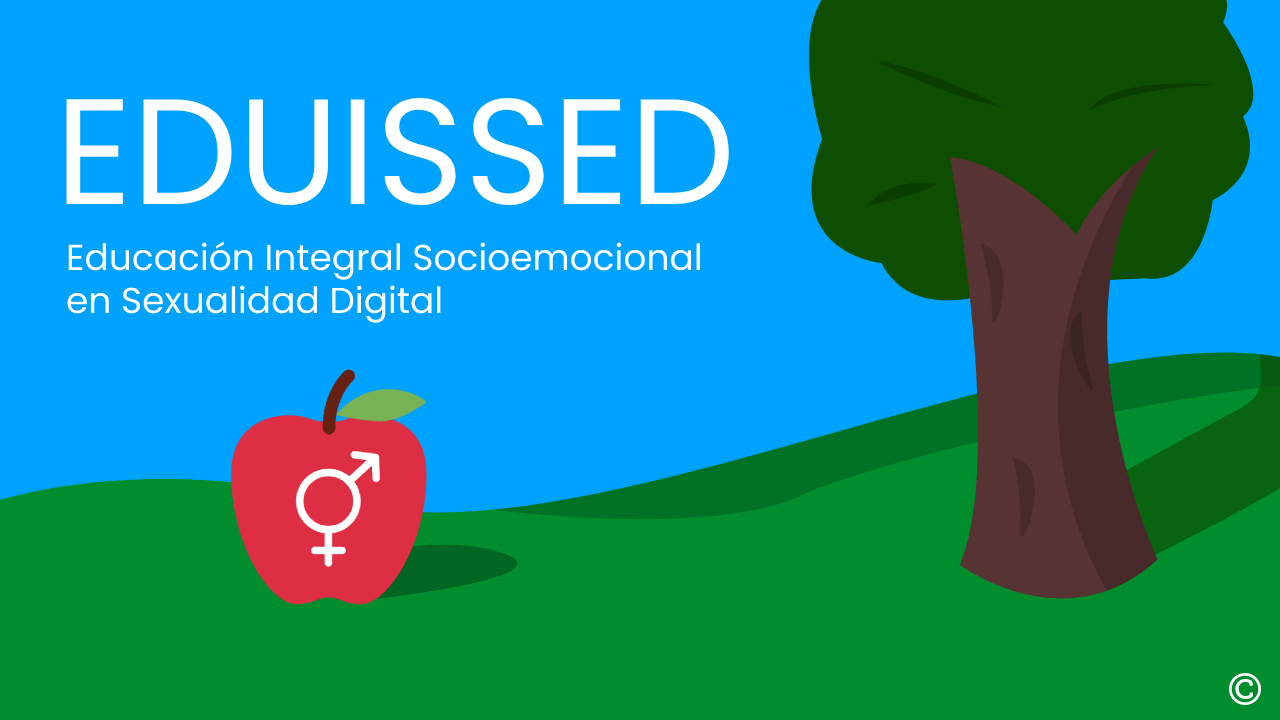
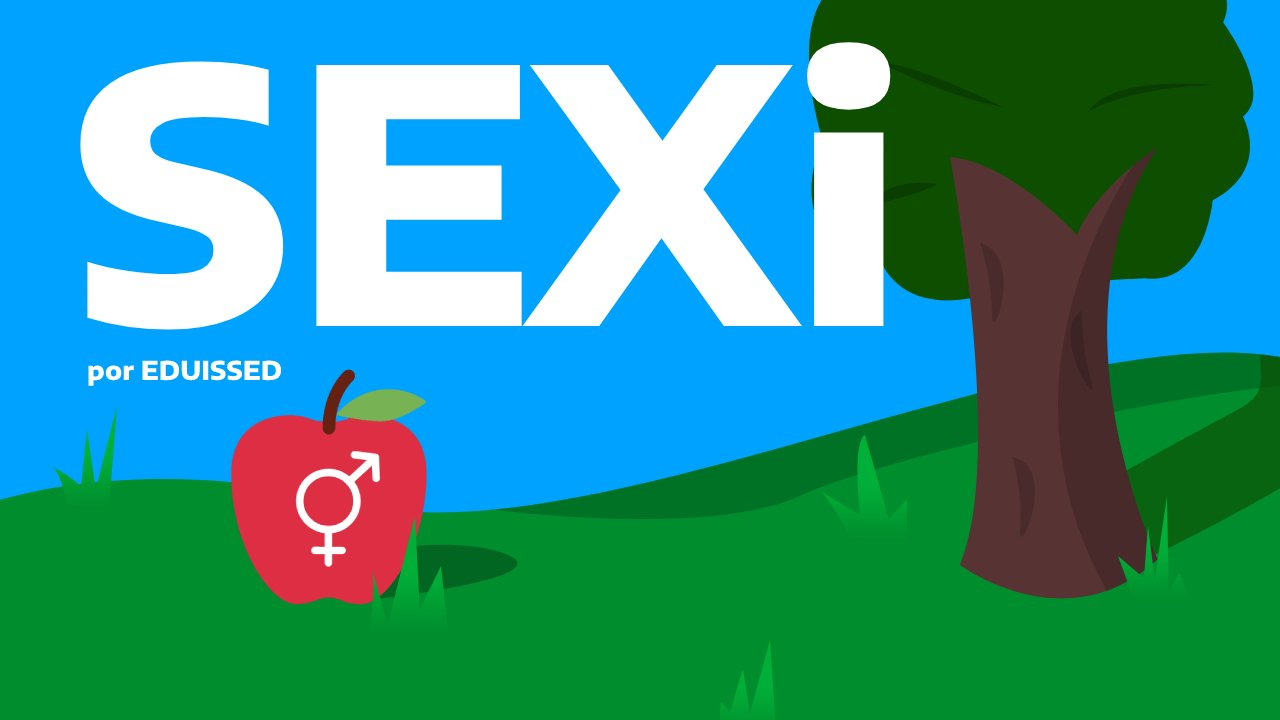
Renamed project to SEXi

diff --git a/index.html b/index.html
@@ -7,11 +7,12 @@
     <meta name="description" content="Hi! I'm Dvd and this is my personal website!" />
 
     <meta content="summary_large_image" property="twitter:card" />
-    <meta content="EDUISSED" property="twitter:title" />
+    <meta content="SEXi" property="twitter:title" />
+    <meta content="EDUISSED" property="twitter:creator" />
     <meta content="Somos una plataforma que busca fomentar la educación sexual en adolescentes"
         property="twitter:description" />
     <meta content="https://eduissed.org/resources/images/preview.jpg" property="twitter:image" />
-    <title>EDUISSED</title>
+    <title>SEXi - Inicio</title>
     <link href='https://unpkg.com/boxicons@2.1.4/css/boxicons.min.css' rel='stylesheet' />
     <link rel="stylesheet" href="./css/style.css" />
     <link rel="shortcut icon" href="../resources/favicon_color.ico" type="image/x-icon" />
@@ -23,8 +24,11 @@
             <span class="shrink-btn">
                 <i class='bx bx-chevron-left'></i>
             </span>
-            <a href="./index.html" class="logo"><img src="./resources/images/logo.png" alt="EDUISSED"></a>
-            <h3 class="hide noselect">EDUISSED</h3>
+            <a href="../index.html" class="logo"><img src="../resources/images/logo.png" alt="SEXi"></a>
+            <div class="logo-text hide noselect">
+                <h3>SEXi</h3>
+                <h4>de EDUISSED</h4>
+            </div>
         </div>
 
         <div class="search">
@@ -80,7 +84,7 @@
     </nav>
     <main>
         <div id="inicio" class="section">
-            <h1 class="section-title">¿Qué es EDUISSED?</h1>
+            <h1 class="section-title">¿Qué es SEXi?</h1>
             <p>
                 Actualmente, las estrategias de enseñanza-aprendizaje que el sistema educativo desarrolla a través de
                 los
@@ -89,8 +93,9 @@
                 pierdan el interés por realizar las actividades y como consecuencia, no se logré el aprendizaje y
                 comprensión esperado sobre los temas</p>
             <p>
-                Es por eso que decidimos diseñar "EDUISSED" <span class="remark">(Educación Integral Socioemocional en
-                    Sexualidad Digitalizada)</span>,
+                Es por eso que nosotros, EDUISSED <span class="remark">(Educación Integral Socioemocional en
+                    Sexualidad Digitalizada)</span>, decidimos diseñar <b>SEXi</b> <span class="remark">Sexualidad
+                    Digitalizada</span>
                 una herramienta tecnopedagógica, específicamente una pagina
                 web, que tiene como objetivo coadyuvar a la adquisición de habilidades socioemocionales en sexualidad.
                 Lo

diff --git a/aprende/index.html b/aprende/index.html
@@ -3,11 +3,18 @@
 
 <head>
     <meta charset="UTF-8">
-    <meta http-equiv="X-UA-Compatible" content="IE=edge">
     <meta name="viewport" content="width=device-width, initial-scale=1.0">
-    <title>EDUISSED</title>
-    <link href='https://unpkg.com/boxicons@2.1.4/css/boxicons.min.css' rel='stylesheet'>
-    <link rel="stylesheet" href="../css/aprende.css">
+    <meta name="description" content="Hi! I'm Dvd and this is my personal website!" />
+
+    <meta content="summary_large_image" property="twitter:card" />
+    <meta content="SEXi" property="twitter:title" />
+    <meta content="EDUISSED" property="twitter:creator" />
+    <meta content="Somos una plataforma que busca fomentar la educación sexual en adolescentes"
+        property="twitter:description" />
+    <meta content="https://eduissed.org/resources/images/preview.jpg" property="twitter:image" />
+    <title>SEXi - Aprende</title>
+    <link href='https://unpkg.com/boxicons@2.1.4/css/boxicons.min.css' rel='stylesheet' />
+    <link rel="stylesheet" href="../css/aprende.css" />
     <link rel="shortcut icon" href="../resources/favicon_color.ico" type="image/x-icon" />
 </head>
 
@@ -17,8 +24,11 @@
             <span class="shrink-btn">
                 <i class='bx bx-chevron-left'></i>
             </span>
-            <a href="../index.html" class="logo"><img src="../resources/images/logo.png" alt="EDUISSED"></a>
-            <h3 class="hide noselect">EDUISSED</h3>
+            <a href="../index.html" class="logo"><img src="../resources/images/logo.png" alt="SEXi"></a>
+            <div class="logo-text hide noselect">
+                <h3>SEXi</h3>
+                <h4>de EDUISSED</h4>
+            </div>
         </div>
 
         <div class="search noselect">

diff --git a/css/style.css b/css/style.css
@@ -128,10 +128,23 @@ footer img {
 	width: 4rem;
 }
 
-.sidebar-top h3 {
+.logo-text {
+	display: flex;
+	width: 100%;
+	flex-direction: column;
+	align-items: center;
+}
+
+.logo-text h3 {
 	padding-left: 0rem;
 	font-weight: 600;
-	font-size: 1.8rem;
+	font-size: 2rem;
+}
+
+.logo-text h4 {
+	padding-left: 0rem;
+	font-weight: 400;
+	font-size: 0.7rem;
 }
 
 .shrink-btn {

diff --git a/README.md b/README.md
@@ -1,3 +1,3 @@
-# EDUISSED
+# SEXi
 
-EDUISSED es un proyecto realizado por alumnos del CETis 138. Tiene como misión el apoyar a los jóvenes proveyéndolos con  herramientas que les permitan aprender educación sexual de calidad así como habilidades socioemocionales haciendo uso de herramientas de AR en un página de internet
+SEXi es un proyecto realizado por el equipo de EDUISSED, el cual está conformado por alumnos del CETis 138. Tiene como misión el apoyar a los jóvenes proveyéndolos con  herramientas que les permitan aprender educación sexual de calidad así como habilidades socioemocionales haciendo uso de herramientas de AR en un página de internet
